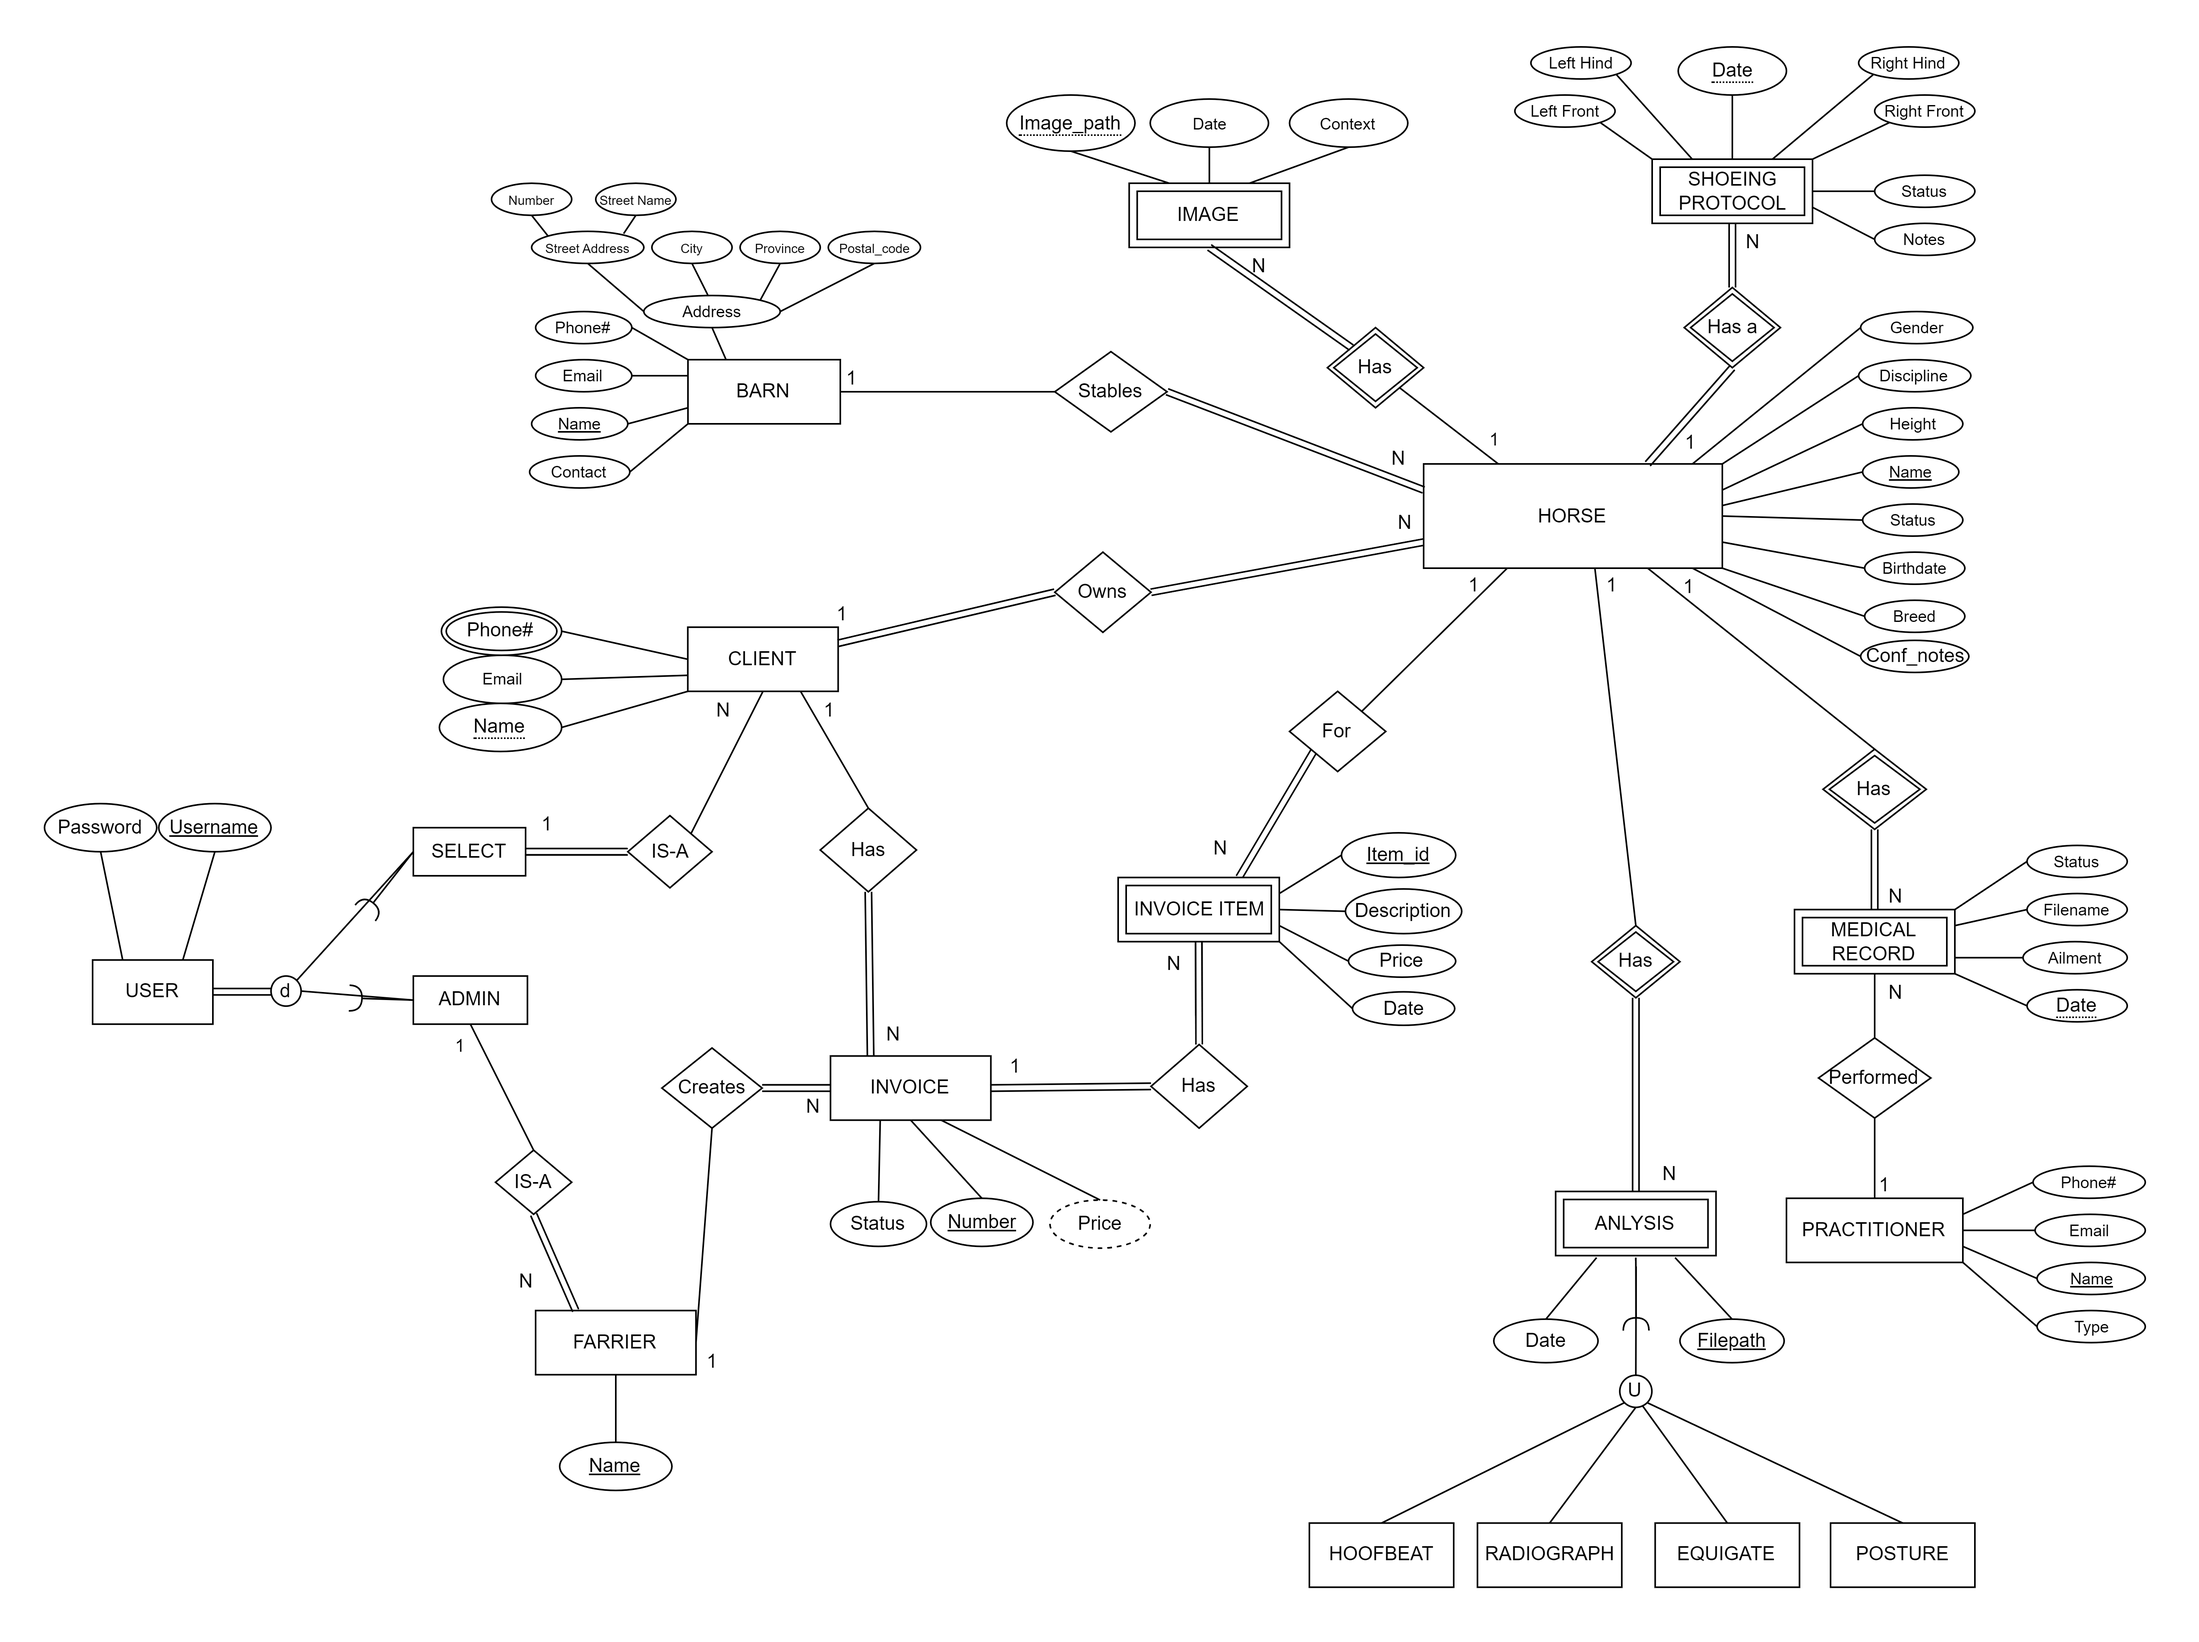
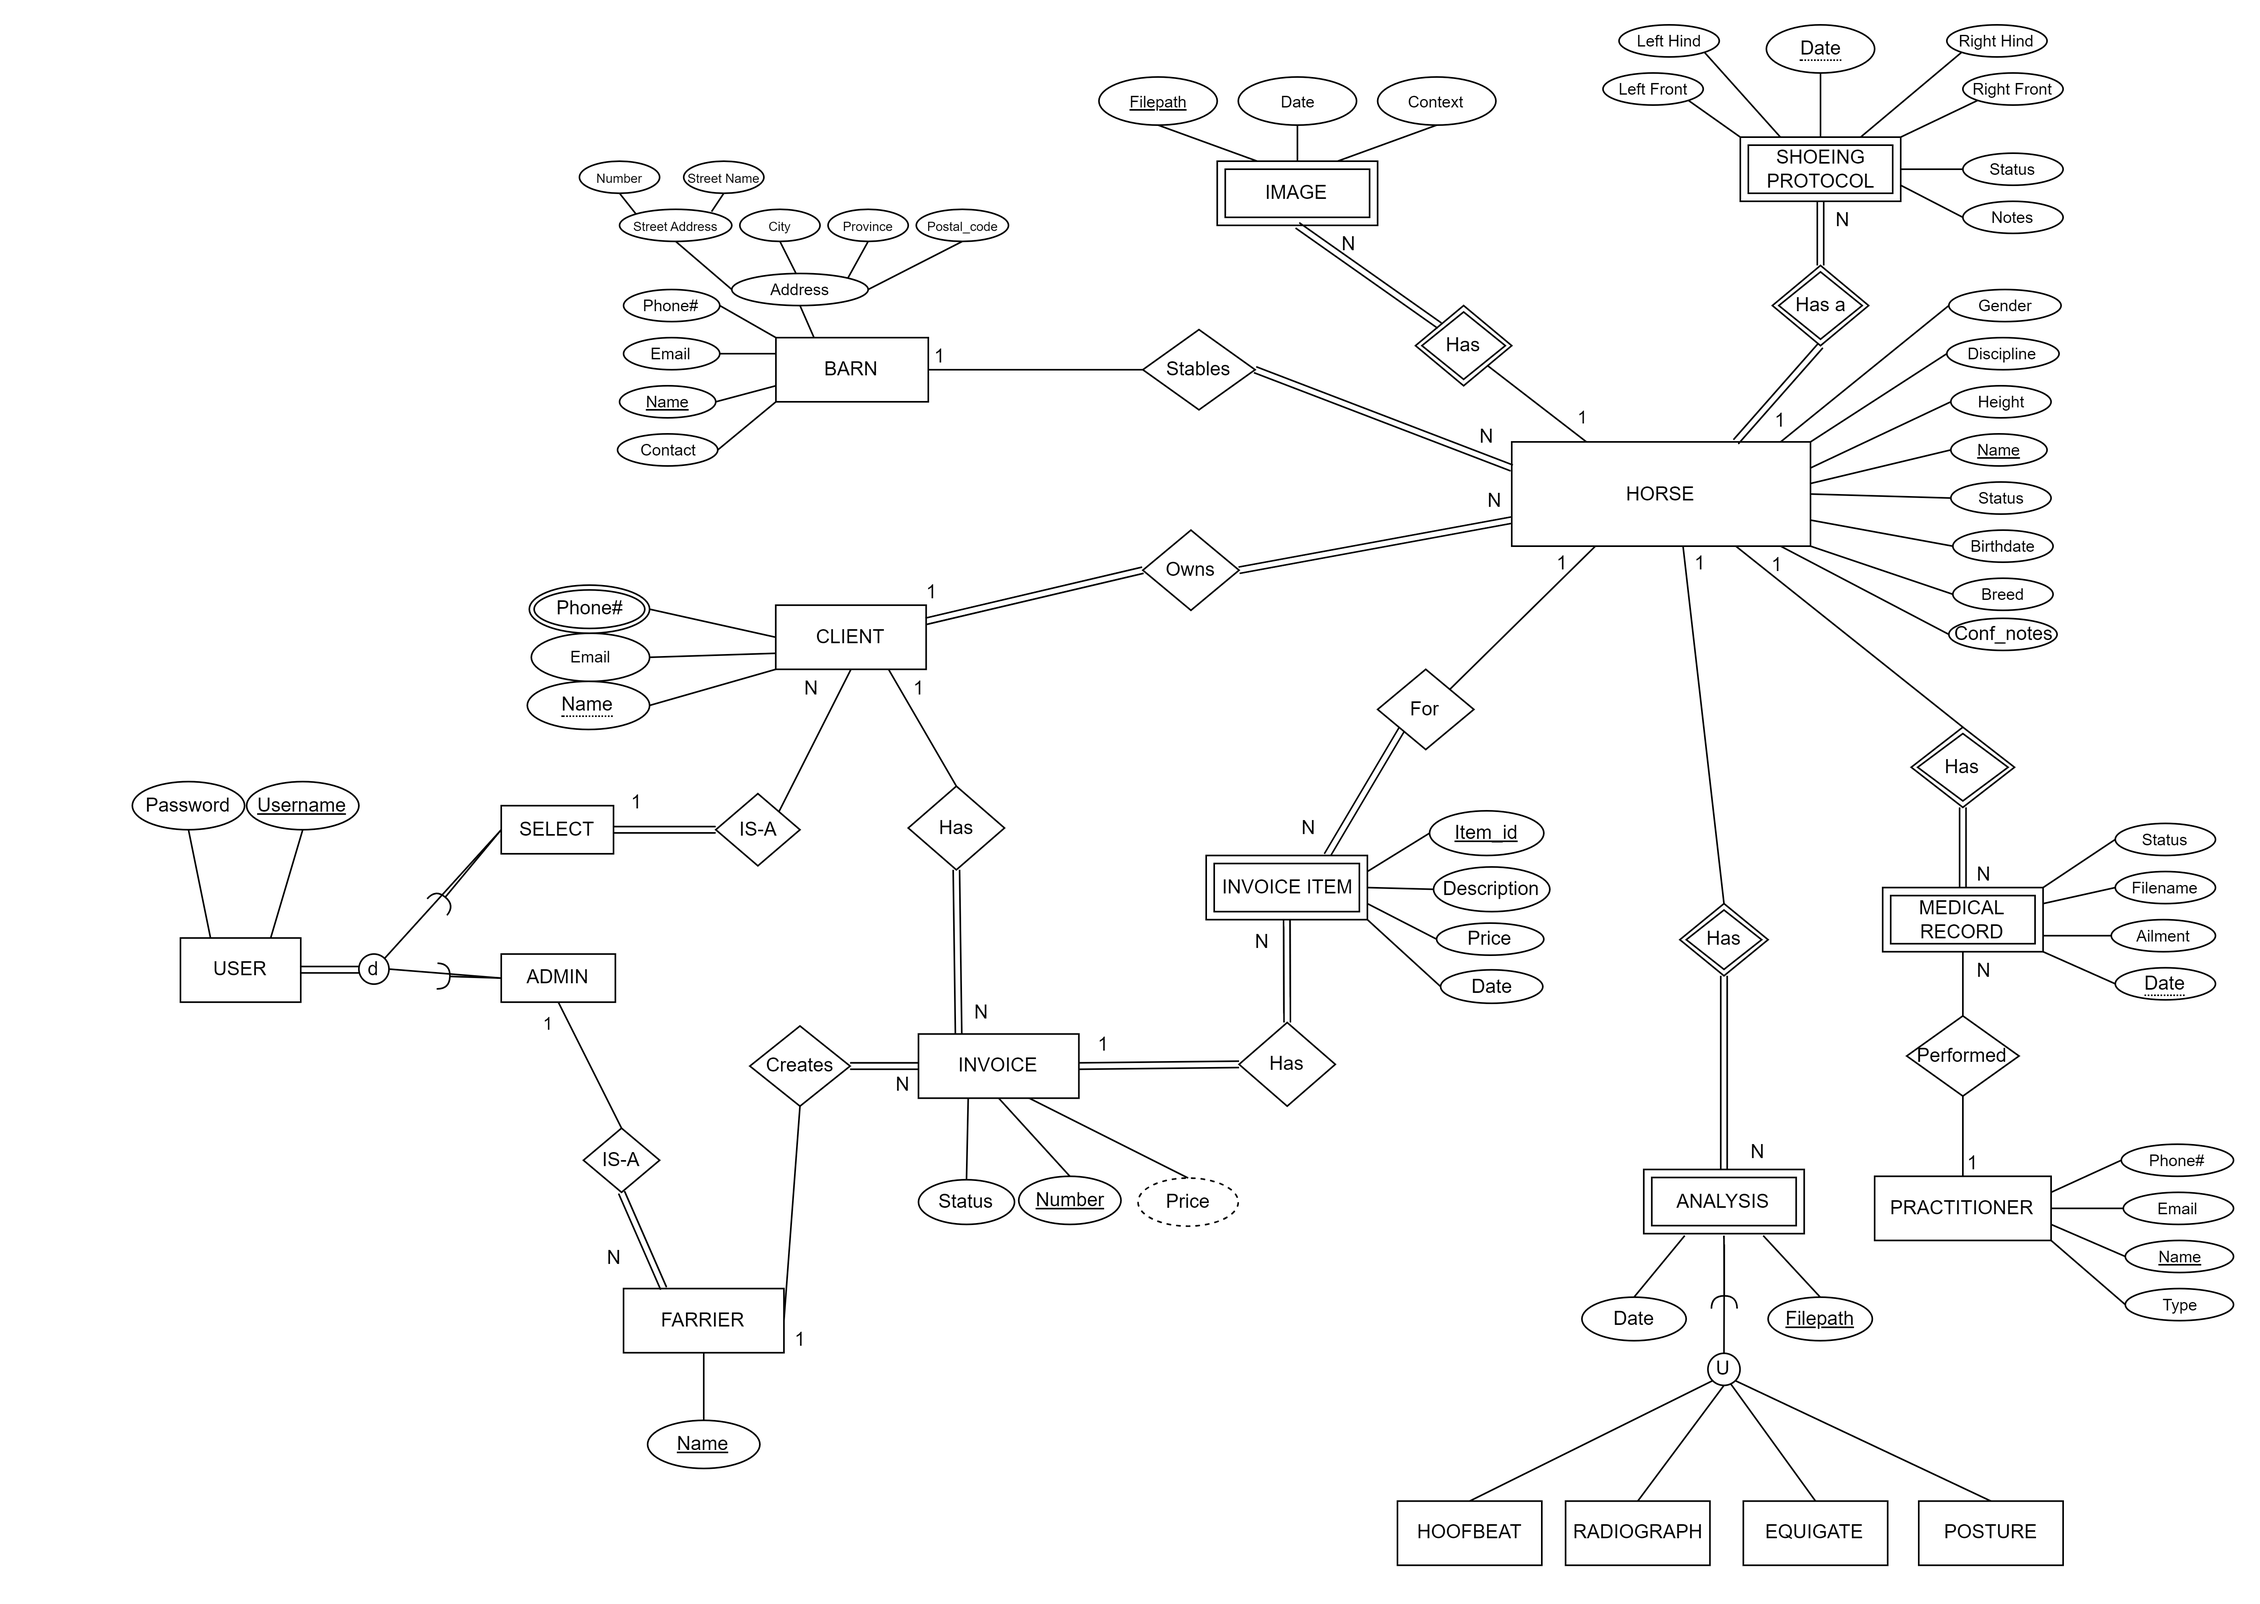
feat(medical-record): implement full M.R. functionality (CRUD acces for admin)
- add_medical_record.php handles file upload, practitioner dropdown
  with freetext fallback via AddPractitionerIfNotExists

- medical_record.php displays full record and practitioner details
  with conditional file download button

- horse.php updated with Medical Records card, delete handler, and
  retrieve_medical_records() call

- delete_medical_record() in update_database.php removes file (if it
  exists) from disk and database record

- seed data updated to use Filepath column name instead of Filename

diff --git a/app/add_medical_record.php b/app/add_medical_record.php
@@ -62,9 +62,11 @@ if ($_SERVER["REQUEST_METHOD"] == "POST") {
 ?>
 
 <html>
+
 <head>
     <link rel="stylesheet" href="style.css">
 </head>
+
 <body>
     <div class="onboarding-overlay">
         <div class="onboarding-overlay-outer">
@@ -74,7 +76,7 @@ if ($_SERVER["REQUEST_METHOD"] == "POST") {
                 <h1 class="returning__header">Add Medical Record</h1>
                 <form class="signin" method="post" enctype="multipart/form-data">
                     <div class="form-group">
-                        <label for="date">Date</label>
+                        <label for="date">Date of Diagnosis</label>
                         <input type="date" class="form-control" id="date" name="date"
                             value="<?php echo isset($_POST['date']) ? $_POST['date'] : ''; ?>" required />
                     </div>
@@ -101,11 +103,14 @@ if ($_SERVER["REQUEST_METHOD"] == "POST") {
                             ?>
                             <option value="other">Other (type below)</option>
                         </select>
+                        <input type="text" class="form-control" id="pname_other" name="pname_other"
+                            placeholder="Enter unlisted practitioner name" style="display: none; margin-top: 8px;"
+                            value="<?php echo isset($_POST['pname_other']) ? $_POST['pname_other'] : ''; ?>" />
                     </div>
                     <div class="form-group" id="pname_other_group" style="display: none;">
                         <label for="pname_other">Practitioner Name</label>
                         <input type="text" class="form-control" id="pname_other" name="pname_other"
-                            placeholder="Enter practitioner name"
+                            placeholder="Enter unlisted practitioner name"
                             value="<?php echo isset($_POST['pname_other']) ? $_POST['pname_other'] : ''; ?>" />
                     </div>
                     <div class="form-group">
@@ -128,17 +133,18 @@ if ($_SERVER["REQUEST_METHOD"] == "POST") {
         </div>
     </div>
 </body>
+
 </html>
 
+<!-- Dropdown option to enter unlisted Practitioner   -->
 <script>
     function toggleOtherInput(value) {
-        var otherGroup = document.getElementById('pname_other_group');
         var otherInput = document.getElementById('pname_other');
         if (value === 'other') {
-            otherGroup.style.display = 'block';
+            otherInput.style.display = 'block';
             otherInput.required = true;
         } else {
-            otherGroup.style.display = 'none';
+            otherInput.style.display = 'none';
             otherInput.required = false;
         }
     }

diff --git a/app/images.php b/app/images.php
@@ -77,7 +77,7 @@ if ($_SERVER['REQUEST_METHOD'] === 'POST' && isset($_POST['delete_path'])) {
     }
 
     // Delete the record from the database
-    $stmt_delete = $conn->prepare("DELETE FROM Image WHERE Image_path = ? AND Hname = ?");
+    $stmt_delete = $conn->prepare("DELETE FROM Image WHERE image_path = ? AND Hname = ?");
     $stmt_delete->bind_param("ss", $path_to_delete, $horse_name);
     $stmt_delete->execute();
 }
@@ -87,9 +87,11 @@ $conn->close();
 ?>
 
 <html>
+
 <head>
     <link rel="stylesheet" href="style.css">
 </head>
+
 <body>
     <div class="onboarding-overlay">
         <div class="onboarding-overlay-outer">
@@ -101,15 +103,17 @@ $conn->close();
                 <h1 class='returning__header'>Images for <?php echo htmlspecialchars($horse_name); ?></h1>
 
                 <?php if ($_SESSION['user_type'] === 'Admin'): ?>
-                <div style='text-align: right; margin-bottom: 10px;'>
-                    <form method='POST' enctype='multipart/form-data' style='display: inline-block;'>
-                        <input type='text' name='context' placeholder='Context (e.g. Left front hoof)'
-                            style='height: 32px; border-radius: 5px; border: 1px solid #ccc; padding: 0 8px; margin-right: 6px;'>
-                        <input type='file' name='horse_image[]' accept='image/*' multiple required
-                            style='margin-right: 6px;'>
-                        <input type='submit' class='add-button' value='Upload Image(s)'>
-                    </form>
-                </div>
+                    <div class='action-bar' style='margin-bottom: 10px;'>
+                        <form method='POST' enctype='multipart/form-data' style='display: flex; width: 100%; align-items: center;'>
+                            <input type='text' name='context' placeholder='Context (e.g. Left front hoof)'
+                                style='height: 32px; border-radius: 5px; border: 1px solid #ccc; padding: 0 8px;'>
+                            <div style='margin-left: auto;'>
+                                <input type='file' name='horse_image[]' accept='image/*' multiple required
+                                    style='margin-right: 6px;'>
+                                <input type='submit' class='add-button' value='Upload Image(s)'>
+                            </div>
+                        </form>
+                    </div>
                 <?php endif; ?>
 
                 <?php if (isset($error)): ?>
@@ -144,4 +148,5 @@ $conn->close();
         </div>
     </div>
 </body>
+
 </html>

diff --git a/app/horse_functions.php b/app/horse_functions.php
@@ -100,8 +100,9 @@ function retrieve_analysis_dates_types($conn)
         // Check if any invoices were retrieved
         while ($tuple = $analysis_result->fetch_assoc()) {
             $analysis[] = [
-                "date" => $tuple["Analysis_Date"],
-                "type" => $tuple["Type"]
+                "analysis_path" => $tuple["Analysis_path"],
+                "date"          => $tuple["Analysis_Date"],
+                "type"          => $tuple["Type"]
             ];
         }
         $_SESSION['analysis_table'] = $analysis;

diff --git a/README.md b/README.md
@@ -54,7 +54,7 @@ data automatically on first run.
 ![Admin dashboard — shows the home page with navigation links to Horses, Barns, Clients, and Account](docs/screenshots/admin_dashboard.png)
 
 ### Horse List
-![Horse list — shows a searchable table of all horses with their owner names](docs/screenshots/horses.png)
+![Horse list (admin) — shows a searchable table of all horses with their owner names](docs/screenshots/admin_horses.png)
 
 ### Horse Detail
 ![Horse detail page — shows full horse record including breed, discipline, height, conformation notes, and links to shoeing protocols, images, and analysis](docs/screenshots/horse_detail.png)
